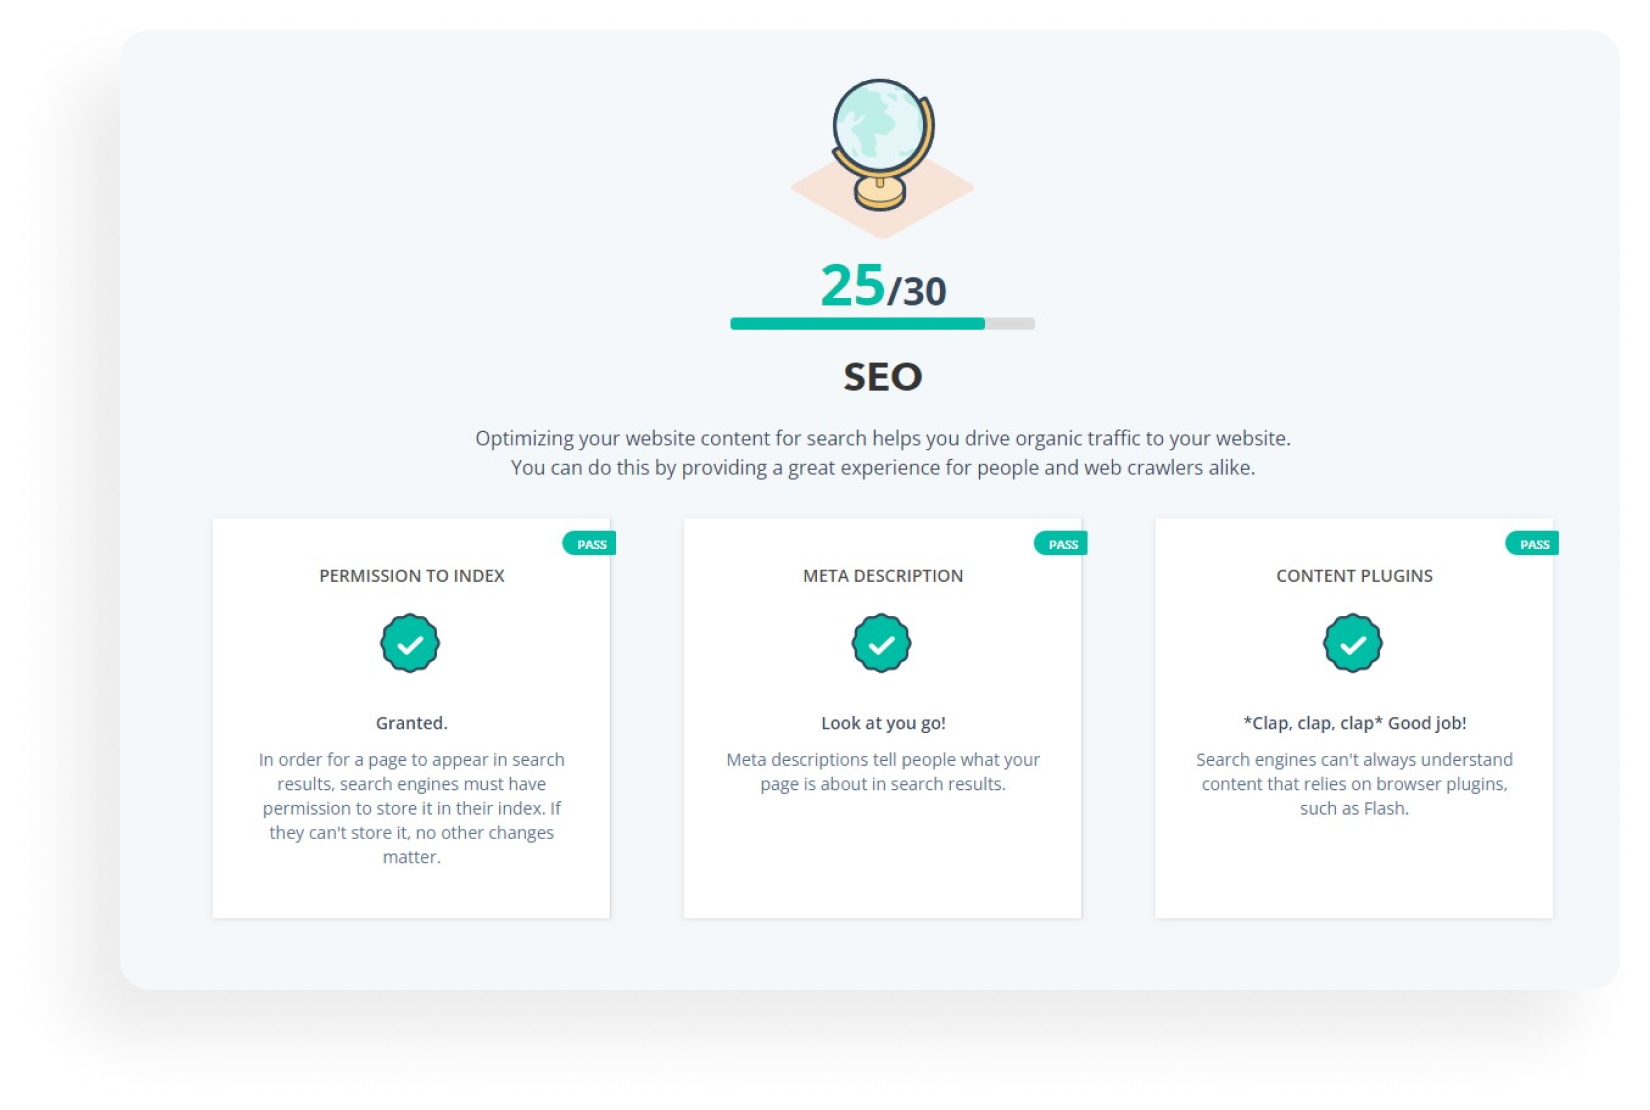
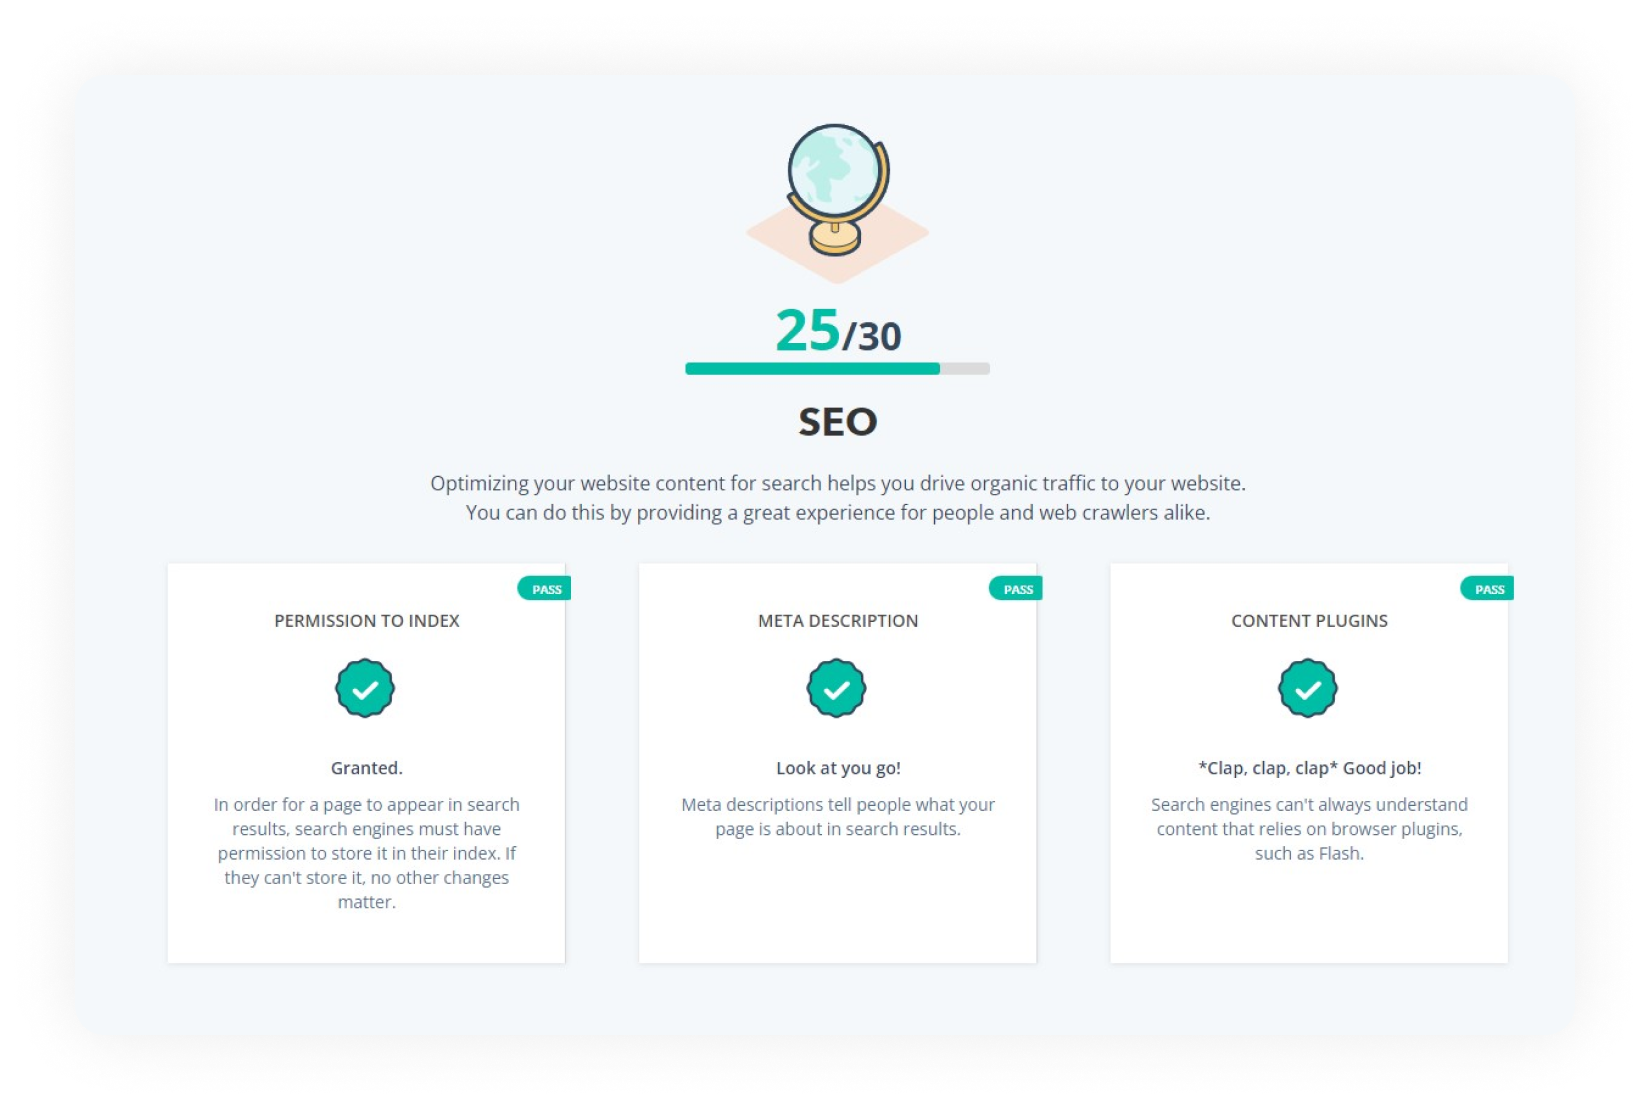
updated onsite

diff --git a/rtpmedicalsolutions/onsite.html b/rtpmedicalsolutions/onsite.html
@@ -672,7 +672,7 @@
               <div class="row">
 
                 <div class="col-xl-8 col-lg-6 col-md-12 col-sm-12">
-                  <img src="users/img/sections-new/featurepage/onsite/gzipcompression.png" alt="" class="img-fluid" style="border-radius: 20px;">
+                  <img src="users/img/sections-new/featurepage/onsite/gzipcompression.png" alt="" class="img-fluid" style="border-radius: 20px;box-shadow: 0px 2px 15px rgb(0 0 0 / 10%);">
                 </div>
 
                 <div class="col-xl-4 col-lg-6 col-md-12 col-sm-12">
@@ -704,7 +704,7 @@
                 </div>
 
                 <div class="col-xl-8 col-lg-6 col-md-12 col-sm-12 oder-xl-2 order-lg-2 order-md-1 order-sm-1">
-                  <img src="users/img/sections-new/featurepage/onsite/optimizeimages.png" alt="" class="img-fluid" style="border-radius: 20px;">
+                  <img src="users/img/sections-new/featurepage/onsite/optimizeimages.png" alt="" class="img-fluid" style="border-radius: 20px;box-shadow: 0px 2px 15px rgb(0 0 0 / 10%);">
                 </div>
 
               </div>
@@ -714,7 +714,7 @@
               <div class="row">
 
                 <div class="col-xl-8 col-lg-6 col-md-12 col-sm-12">
-                  <img src="users/img/sections-new/featurepage/onsite/minification.png" alt="" class="img-fluid" style="border-radius: 20px;">
+                  <img src="users/img/sections-new/featurepage/onsite/minification.png" alt="" class="img-fluid" style="border-radius: 20px;box-shadow: 0px 2px 15px rgb(0 0 0 / 10%);">
                 </div>
 
                 <div class="col-xl-4 col-lg-6 col-md-12 col-sm-12">
